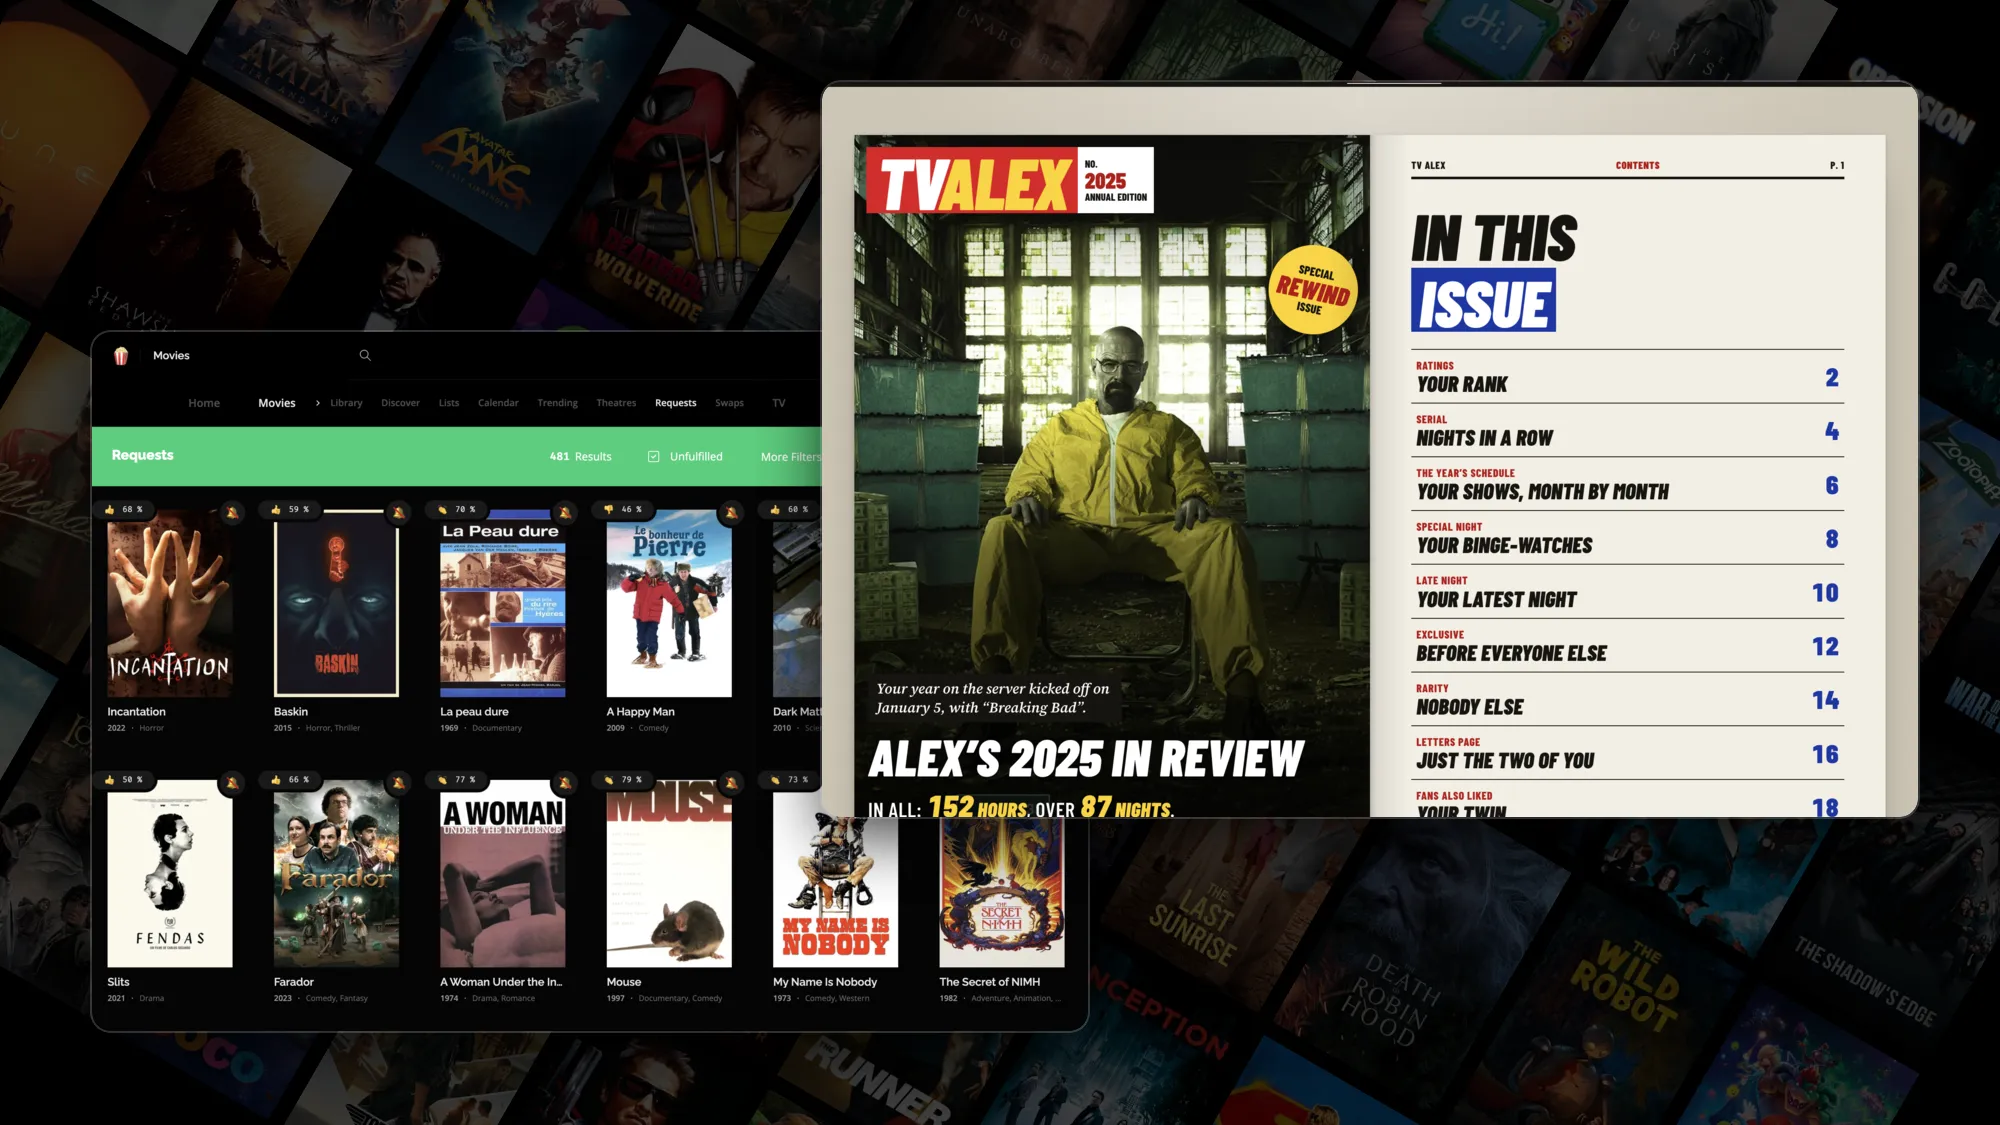
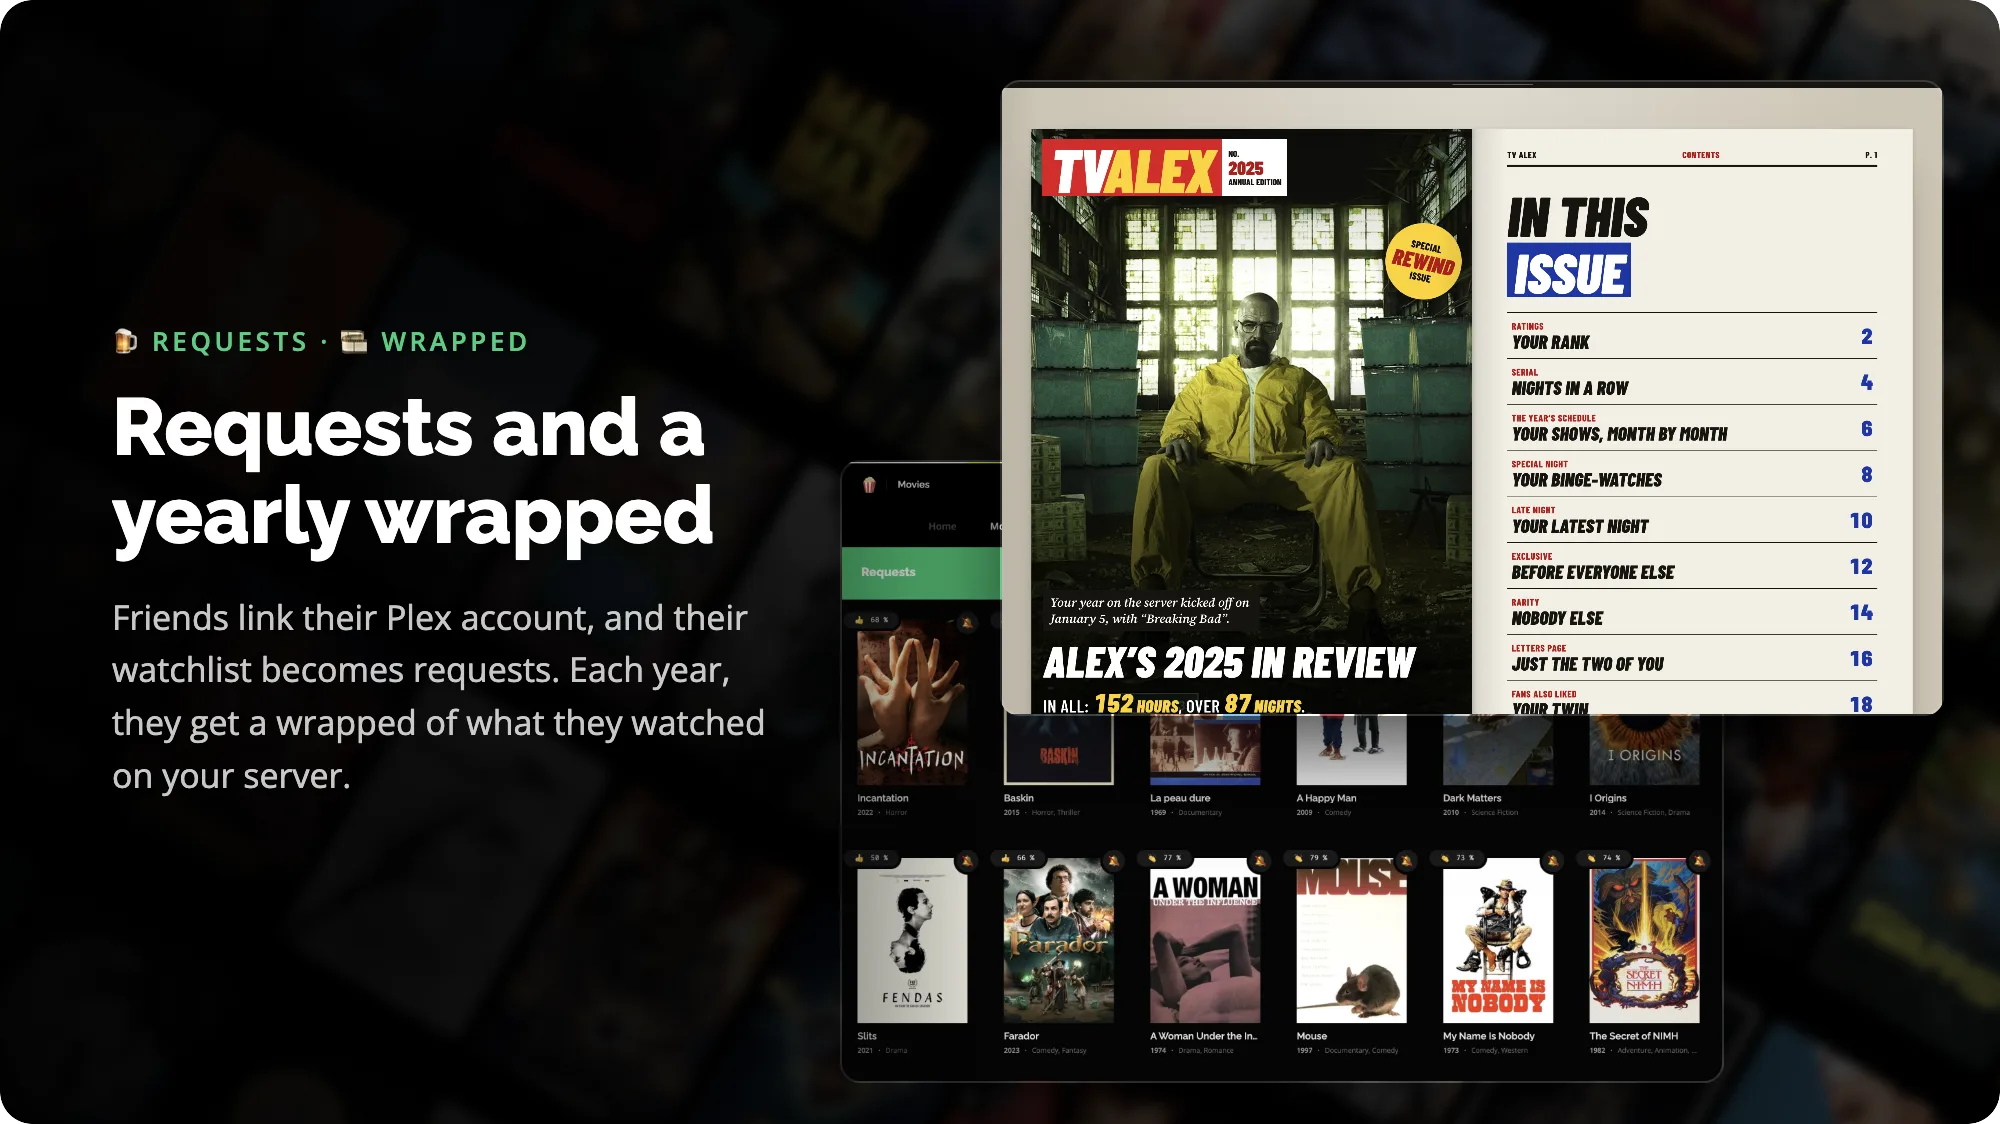
docs(readme): bake each feature's title and text into its tile, magnify details in place, blur the poster wall

diff --git a/README.md b/README.md
@@ -23,7 +23,7 @@
 </p>
 
 <p align="center">
-  🎬 Wish &nbsp;→&nbsp; 🔎 Search &nbsp;→&nbsp; ⚖ Rank &nbsp;→&nbsp; 📥 Grab &nbsp;→&nbsp; ✨ Refine
+  🍿 Wished &nbsp;→&nbsp; 📹 Record &nbsp;→&nbsp; 📼 Archived &nbsp;→&nbsp; ✨ Refine &nbsp;→&nbsp; 💎 Refined &nbsp;→&nbsp; ✂ Shrink &nbsp;→&nbsp; 💍 Shrinked
 </p>
 
 <p align="center">
@@ -31,47 +31,19 @@
   picks the best release by your rules, and hands it to your download client.
 </p>
 
-### Movies and TV, together
+<img src="docs/assets/readme/movies-tv.webp" width="100%" alt="One library for everything. Movies and shows live side by side, with the same rules, the same screens and the same jobs. No Radarr next to Sonarr.">
 
-One library for both, with the same rules and the same screens. No Radarr next to Sonarr.
+<img src="docs/assets/readme/seasons.webp" width="100%" alt="Whole series, seasons or episodes. Follow a show, a season or a single episode. Sensorr looks for the whole series first, then season packs, then episodes, and hard links finished files into your library.">
 
-<img src="docs/assets/readme/movies-tv.webp" width="100%" alt="The movie library and the TV library">
+<img src="docs/assets/readme/policies.webp" width="100%" alt="Your rules, not a quality profile. Avoid, prefer or require each source, codec, resolution, language and indexer. The sandbox shows which release would win.">
 
-### Whole series, seasons, episodes
+<img src="docs/assets/readme/swaps.webp" width="100%" alt="Better, then lighter. Refine looks for a release closer to your policy, Shrink for a smaller one that loses nothing. Each swap shows what changes, and the space it frees.">
 
-Follow a show, a season or a single episode. Sensorr grabs the whole pack when it can, episode by episode when it can't.
+<img src="docs/assets/readme/people.webp" width="100%" alt="Follow the people you love. Follow a director, an actor or a composer, and their next films land in your calendar, month by month.">
 
-<img src="docs/assets/readme/seasons.webp" width="100%" alt="A show page with a season pack to accept, and the files of each episode">
+<img src="docs/assets/readme/friends.webp" width="100%" alt="Requests and a yearly wrapped. Friends link their Plex account, and their watchlist becomes requests. Each year, they get a wrapped of what they watched on your server.">
 
-### Policies, not quality profiles
-
-Say what you avoid, what you prefer and what you require. The sandbox shows what Sensorr would pick.
-
-<img src="docs/assets/readme/policies.webp" width="100%" alt="A policy's rules, and the releases its sandbox ranks first">
-
-### Swaps: Refine and Shrink
-
-Already own it? `refine` finds a better version, `shrink` a lighter one. You see what changes, and the space it frees.
-
-<img src="docs/assets/readme/swaps.webp" width="100%" alt="The Swaps screen, the space each command frees, and what changes for one movie">
-
-### Follow people
-
-Follow a director or an actor, and their next films land in your calendar.
-
-<img src="docs/assets/readme/people.webp" width="100%" alt="A director you follow, and the calendar of the people you follow">
-
-### Friends
-
-Their Plex watchlists become requests you accept or ignore. Each year, they get a wrapped of what they watched on your server.
-
-<img src="docs/assets/readme/friends.webp" width="100%" alt="Requests from friends, and a friend's wrapped">
-
-### In your pocket
-
-Install it on your phone, and accept a proposal right from its notification.
-
-<img src="docs/assets/readme/phone.webp" width="100%" alt="Sensorr on an iPhone, and a notification with Accept and Refuse">
+<img src="docs/assets/readme/phone.webp" width="100%" alt="In your pocket. Install Sensorr on your phone like an app, and accept a proposal right from its notification.">
 
 **[Try the demo](https://thcolin.github.io/sensorr/)**, login `demo` / `demo`. It runs in your browser on made-up libraries, and your changes stay there until you reset them.
 
